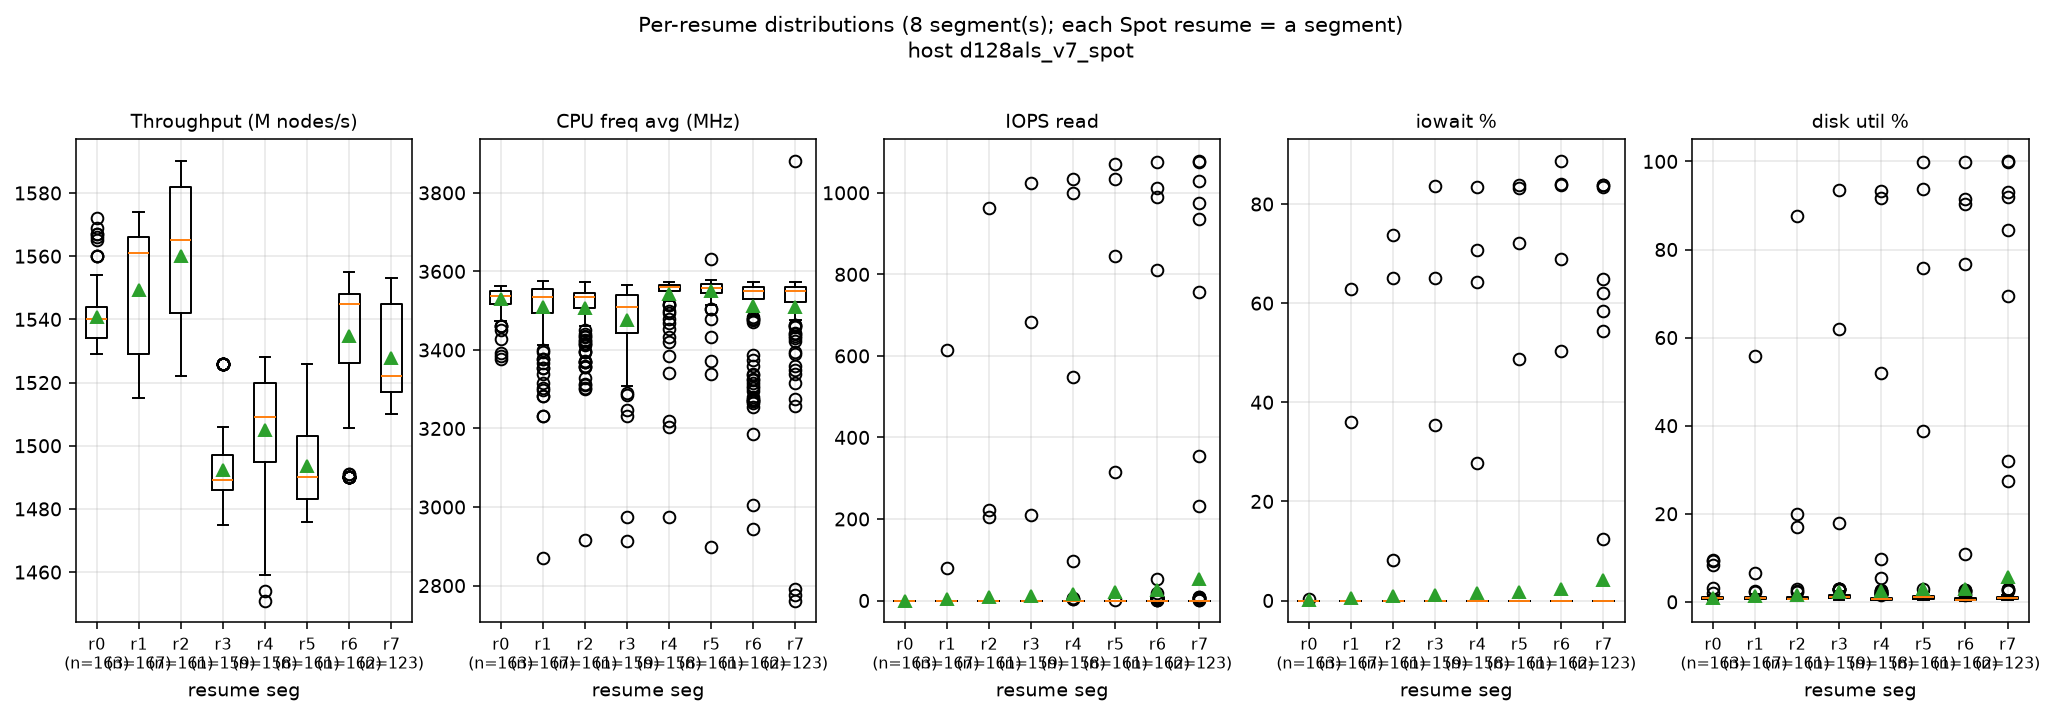
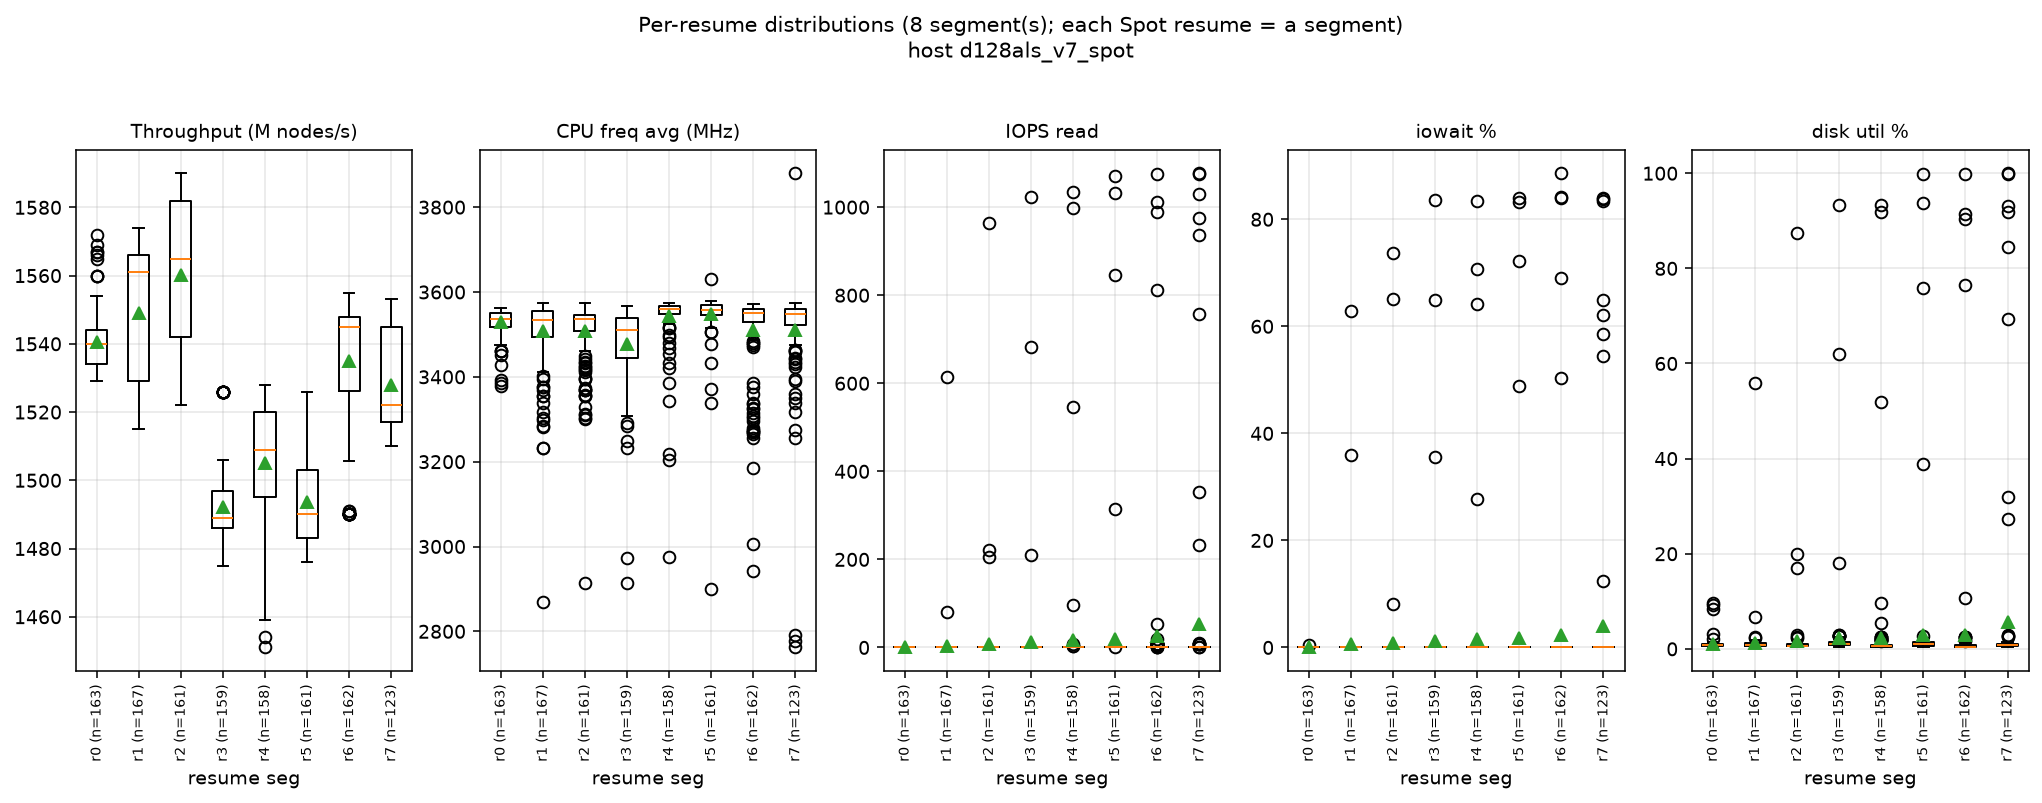
viz: fix per-resume whisker x-labels overwriting (rotate 90 + single-line)
The r{seg} (n=count) x-tick labels were drawn horizontally and collided/overwrote
each other with 8 resume segments in the narrow subplots. Now single-line, rotated
vertical, smaller font — legible and scales to more segments (1120T). Regenerated
the 560T per_resume_whiskers.png with the fix.

diff --git a/viz/visualize.py b/viz/visualize.py
@@ -765,7 +765,7 @@ def plot_telemetry(csv_path, outdir='.'):
     # (3) per-resume whiskers — 5 metrics
     wkeys = [('throughput_M_s', 'Throughput (M nodes/s)'), ('cpu_freq_avg_mhz', 'CPU freq avg (MHz)'),
              ('iops_read', 'IOPS read'), ('iowait_pct', 'iowait %'), ('disk_util_pct', 'disk util %')]
-    figw, axsw = plt.subplots(1, len(wkeys), figsize=(3.6 * len(wkeys), 5))
+    figw, axsw = plt.subplots(1, len(wkeys), figsize=(3.6 * len(wkeys), 5.4))
     if len(wkeys) == 1: axsw = [axsw]
     for ax, (key, ttl) in zip(axsw, wkeys):
         data = []
@@ -775,7 +775,9 @@ def plot_telemetry(csv_path, outdir='.'):
         ax.boxplot(data, showmeans=True)
         _cnt = [sum(1 for rs in resume if rs == s) for s in segs]
         ax.set_xticks(range(1, len(segs) + 1))
-        ax.set_xticklabels([f'r{s}\n(n={c})' for s, c in zip(segs, _cnt)], fontsize=8)
+        # single-line + vertical so the (n=…) counts never overwrite each other, even with many resume segments
+        ax.set_xticklabels([f'r{s} (n={c})' for s, c in zip(segs, _cnt)],
+                           fontsize=7, rotation=90, ha='center', va='top')
         ax.set_title(ttl, fontsize=10); ax.set_xlabel('resume seg'); ax.grid(alpha=0.3)
     figw.suptitle(f'Per-resume distributions ({len(segs)} segment(s); each Spot resume = a segment)'
                   + (f'\n{sub_vm}' if sub_vm else ''), fontsize=11)
